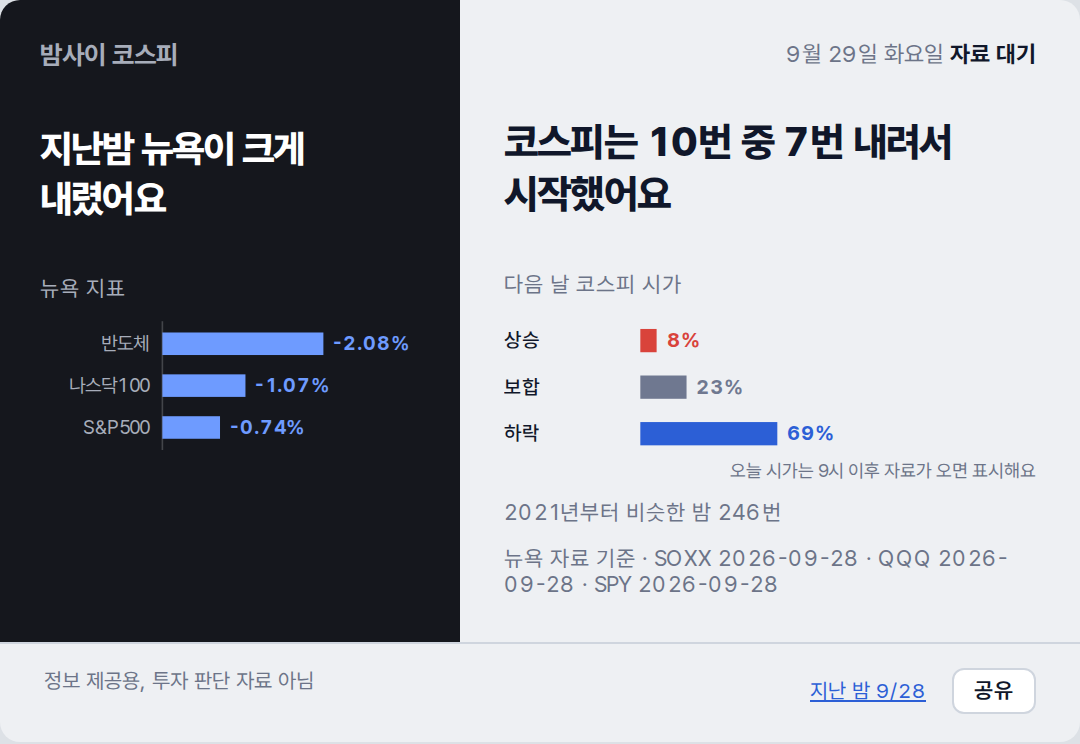
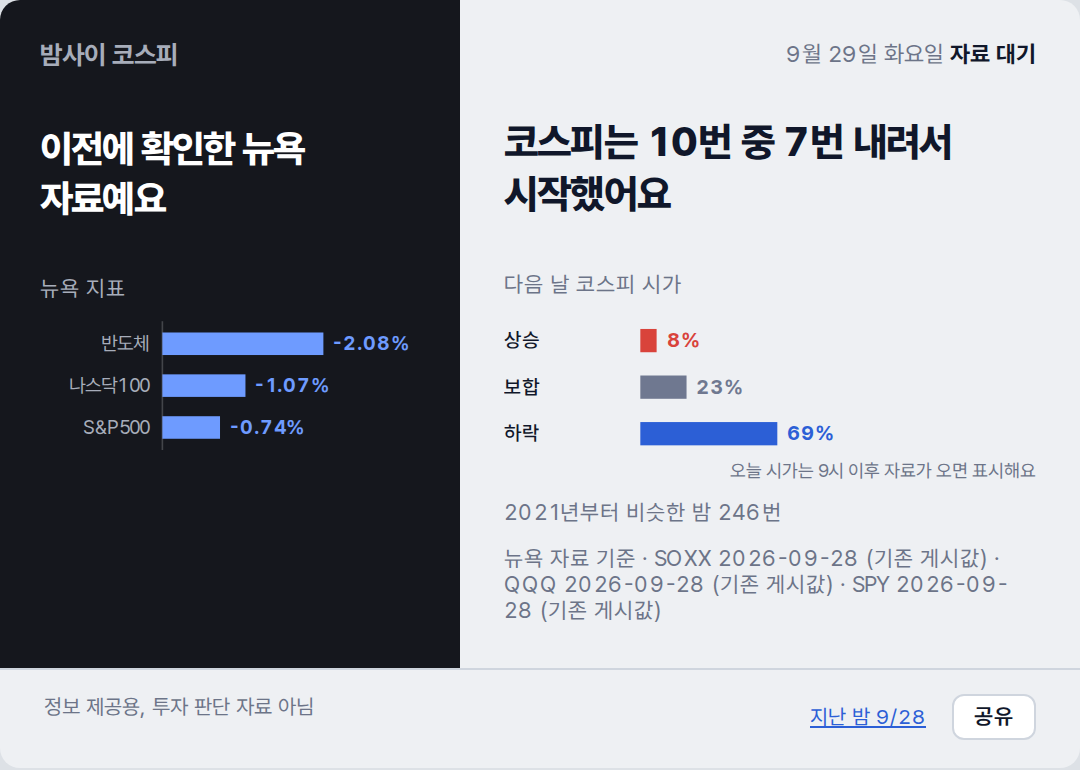
deploy: c0d07a214321b41f7cf333fef670b17ffe5b5852

diff --git a/2026-09-29/index.html b/2026-09-29/index.html
@@ -2,7 +2,7 @@
 <title>밤사이 코스피 · 2026-09-29</title>
 <meta name="description" content="전일 코스피 마감에서 밤사이 뉴욕을 거쳐 오늘 코스피 시가까지, 한 장.">
 <meta property="og:type" content="article"><meta property="og:site_name" content="밤사이 코스피"><meta property="og:url" content="https://mjs0611.github.io/kospi-relay/2026-09-29/">
-<meta property="og:title" content="지난밤 뉴욕이 크게 내렸어요"><meta property="og:description" content="코스피는 10번 중 7번 내려서 시작했어요">
+<meta property="og:title" content="이전에 확인한 뉴욕 자료예요"><meta property="og:description" content="코스피는 10번 중 7번 내려서 시작했어요">
 <meta property="og:image" content="https://mjs0611.github.io/kospi-relay/2026-09-29/relay.png"><meta property="og:image:width" content="1080"><meta name="twitter:card" content="summary_large_image">
 <link rel="stylesheet" href="https://cdn.jsdelivr.net/gh/orioncactus/pretendard@v1.3.9/dist/web/variable/pretendardvariable-dynamic-subset.min.css">
 <style>
@@ -26,7 +26,7 @@ footer a{color:#2C5FD6}
 .share{margin-left:10px;border:1px solid #CFD5DE;background:#FFF;color:#10172A;border-radius:6px;padding:4px 10px;font:600 11px var(--sans);cursor:pointer}
 @media (max-width:480px){.sheet{grid-template-columns:1fr}.cond{margin-top:18px}.claim{margin-top:4px}}
 </style></head><body><div class="sheet">
-<section class="night"><p class="brand">밤사이 코스피</p><p class="cond">지난밤 뉴욕이 크게 내렸어요</p><p class="lab">뉴욕 지표</p><svg viewBox="0 0 236 84" xmlns="http://www.w3.org/2000/svg" font-family="var(--sans)" font-size="12">
+<section class="night"><p class="brand">밤사이 코스피</p><p class="cond">이전에 확인한 뉴욕 자료예요</p><p class="lab">뉴욕 지표</p><svg viewBox="0 0 236 84" xmlns="http://www.w3.org/2000/svg" font-family="var(--sans)" font-size="12">
 <line x1="76" y1="2" x2="76" y2="82" stroke="var(--rule)" stroke-width="1"/>
 <text x="68" y="20" text-anchor="end" fill="var(--muted)">반도체</text>
 <rect x="76" y="9" width="100.0" height="14" fill="var(--down)"/>
@@ -49,12 +49,12 @@ footer a{color:#2C5FD6}
 <rect x="82" y="65" width="82.4" height="14" fill="var(--down)"/>
 <text x="170.4" y="76" fill="var(--down)" font-weight="700">69%</text>
 <text x="320" y="98" text-anchor="end" fill="var(--muted)" font-size="11">오늘 시가는 9시 이후 자료가 오면 표시해요</text>
-</svg><p class="cap">2021년부터 비슷한 밤 246번</p><p class="cap">뉴욕 자료 기준 · SOXX 2026-09-28 · QQQ 2026-09-28 · SPY 2026-09-28</p></section>
+</svg><p class="cap">2021년부터 비슷한 밤 246번</p><p class="cap">뉴욕 자료 기준 · SOXX 2026-09-28 (기존 게시값) · QQQ 2026-09-28 (기존 게시값) · SPY 2026-09-28 (기존 게시값)</p></section>
 <footer><span>정보 제공용, 투자 판단 자료 아님</span><span style="white-space:nowrap"><a href="../2026-09-28/">지난 밤 9/28</a> <button class="share" type="button">공유</button></span></footer>
 <script>
 /* 공유: Web Share가 있으면 시스템 공유 시트, 없으면 링크 복사. 링크는 이 날짜 페이지(OG 카드 붙음) */
 document.querySelector('.share').addEventListener('click', async function () {
-  var url = 'https://mjs0611.github.io/kospi-relay/2026-09-29/', text = "지난밤 뉴욕이 크게 내렸어요. 코스피는 10번 중 7번 내려서 시작했어요";
+  var url = 'https://mjs0611.github.io/kospi-relay/2026-09-29/', text = "이전에 확인한 뉴욕 자료예요. 코스피는 10번 중 7번 내려서 시작했어요";
   try { if (navigator.share) { await navigator.share({ title: '밤사이 코스피', text: text, url: url }); return; } } catch (e) { if (e && e.name === 'AbortError') return; }
   try { await navigator.clipboard.writeText(text + '\n' + url); this.textContent = '링크 복사됨'; } catch (e) { location.href = url; }
 });

diff --git a/index.html b/index.html
@@ -2,7 +2,7 @@
 <title>밤사이 코스피 · 2026-09-29</title>
 <meta name="description" content="전일 코스피 마감에서 밤사이 뉴욕을 거쳐 오늘 코스피 시가까지, 한 장.">
 <meta property="og:type" content="article"><meta property="og:site_name" content="밤사이 코스피"><meta property="og:url" content="https://mjs0611.github.io/kospi-relay/2026-09-29/">
-<meta property="og:title" content="지난밤 뉴욕이 크게 내렸어요"><meta property="og:description" content="코스피는 10번 중 7번 내려서 시작했어요">
+<meta property="og:title" content="이전에 확인한 뉴욕 자료예요"><meta property="og:description" content="코스피는 10번 중 7번 내려서 시작했어요">
 <meta property="og:image" content="https://mjs0611.github.io/kospi-relay/2026-09-29/relay.png"><meta property="og:image:width" content="1080"><meta name="twitter:card" content="summary_large_image">
 <link rel="stylesheet" href="https://cdn.jsdelivr.net/gh/orioncactus/pretendard@v1.3.9/dist/web/variable/pretendardvariable-dynamic-subset.min.css">
 <style>
@@ -26,7 +26,7 @@ footer a{color:#2C5FD6}
 .share{margin-left:10px;border:1px solid #CFD5DE;background:#FFF;color:#10172A;border-radius:6px;padding:4px 10px;font:600 11px var(--sans);cursor:pointer}
 @media (max-width:480px){.sheet{grid-template-columns:1fr}.cond{margin-top:18px}.claim{margin-top:4px}}
 </style></head><body><div class="sheet">
-<section class="night"><p class="brand">밤사이 코스피</p><p class="cond">지난밤 뉴욕이 크게 내렸어요</p><p class="lab">뉴욕 지표</p><svg viewBox="0 0 236 84" xmlns="http://www.w3.org/2000/svg" font-family="var(--sans)" font-size="12">
+<section class="night"><p class="brand">밤사이 코스피</p><p class="cond">이전에 확인한 뉴욕 자료예요</p><p class="lab">뉴욕 지표</p><svg viewBox="0 0 236 84" xmlns="http://www.w3.org/2000/svg" font-family="var(--sans)" font-size="12">
 <line x1="76" y1="2" x2="76" y2="82" stroke="var(--rule)" stroke-width="1"/>
 <text x="68" y="20" text-anchor="end" fill="var(--muted)">반도체</text>
 <rect x="76" y="9" width="100.0" height="14" fill="var(--down)"/>
@@ -49,12 +49,12 @@ footer a{color:#2C5FD6}
 <rect x="82" y="65" width="82.4" height="14" fill="var(--down)"/>
 <text x="170.4" y="76" fill="var(--down)" font-weight="700">69%</text>
 <text x="320" y="98" text-anchor="end" fill="var(--muted)" font-size="11">오늘 시가는 9시 이후 자료가 오면 표시해요</text>
-</svg><p class="cap">2021년부터 비슷한 밤 246번</p><p class="cap">뉴욕 자료 기준 · SOXX 2026-09-28 · QQQ 2026-09-28 · SPY 2026-09-28</p></section>
+</svg><p class="cap">2021년부터 비슷한 밤 246번</p><p class="cap">뉴욕 자료 기준 · SOXX 2026-09-28 (기존 게시값) · QQQ 2026-09-28 (기존 게시값) · SPY 2026-09-28 (기존 게시값)</p></section>
 <footer><span>정보 제공용, 투자 판단 자료 아님</span><span style="white-space:nowrap"><a href="./2026-09-28/">지난 밤 9/28</a> <button class="share" type="button">공유</button></span></footer>
 <script>
 /* 공유: Web Share가 있으면 시스템 공유 시트, 없으면 링크 복사. 링크는 이 날짜 페이지(OG 카드 붙음) */
 document.querySelector('.share').addEventListener('click', async function () {
-  var url = 'https://mjs0611.github.io/kospi-relay/2026-09-29/', text = "지난밤 뉴욕이 크게 내렸어요. 코스피는 10번 중 7번 내려서 시작했어요";
+  var url = 'https://mjs0611.github.io/kospi-relay/2026-09-29/', text = "이전에 확인한 뉴욕 자료예요. 코스피는 10번 중 7번 내려서 시작했어요";
   try { if (navigator.share) { await navigator.share({ title: '밤사이 코스피', text: text, url: url }); return; } } catch (e) { if (e && e.name === 'AbortError') return; }
   try { await navigator.clipboard.writeText(text + '\n' + url); this.textContent = '링크 복사됨'; } catch (e) { location.href = url; }
 });
